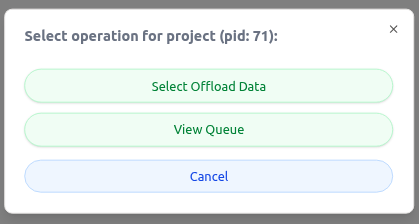
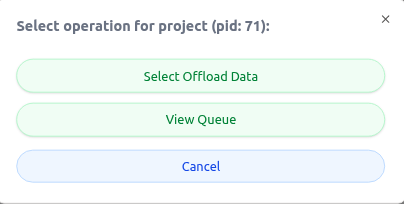
adding some WIP documentation - screenshot images of GUI pages

diff --git a/docs/api-sequences.md b/docs/api-sequences.md
@@ -20,7 +20,9 @@
 **Pages**: `src/routes/index.tsx`, `src/routes/project.index.tsx`, `src/routes/-project.index.tables.tsx`
 
 
-<img src="images/phenomate_project.png" alt="phenomate_project" width="50%" height="50%" style="float: center;">
+<img src="images/phenomate_project.png" alt="phenomate_project" style="display: block; margin: 0 auto; width: 65%;">
+
+
 ```mermaid
 sequenceDiagram
 
@@ -51,7 +53,7 @@ sequenceDiagram
 ## 2) Create project (lookup reference data → submit)
 **Page**: `src/routes/project.create.tsx`
 
-![phenomate_project_create](images/phenomate_project_create.png)
+<img src="images/phenomate_project_create.png" alt="phenomate_project_create" style="display: block; margin: 0 auto; width: 65%;">
 
 ```mermaid
 sequenceDiagram
@@ -83,8 +85,9 @@ sequenceDiagram
 ## 3) Offload data for a project (export job)
 **Pages**: `src/routes/project.$projectId.offload.tsx`, `src/routes/-project.offload.tables.tsx`
 
-![phenomate_project_select_action](images/phenomate_project_select_action.png)
-![phenomate_project_offload_data](images/phenomate_project_offload_data.png) 
+
+<img src="images/phenomate_project_select_action.png" alt="phenomate_project_select_action" style="display: block; margin: 0 auto; width: 65%;">
+<img src="images/phenomate_project_offload_data.png" alt="phenomate_project_offload_data" style="display: block; margin: 0 auto; width: 65%;">
 
 ```mermaid
 sequenceDiagram
@@ -118,8 +121,7 @@ sequenceDiagram
 ## 4) Project detail + activities tab
 **Pages**: `src/routes/project.$projectId.activities.tsx`, `src/routes/-project.activities.tables.tsx`
 
-![phenomate_project_activities](images/phenomate_project_activities.png)  
-
+<img src="images/phenomate_project_activities.png" alt="phenomate_project_activities" style="display: block; margin: 0 auto; width: 65%;">
 
 
 ```mermaid
